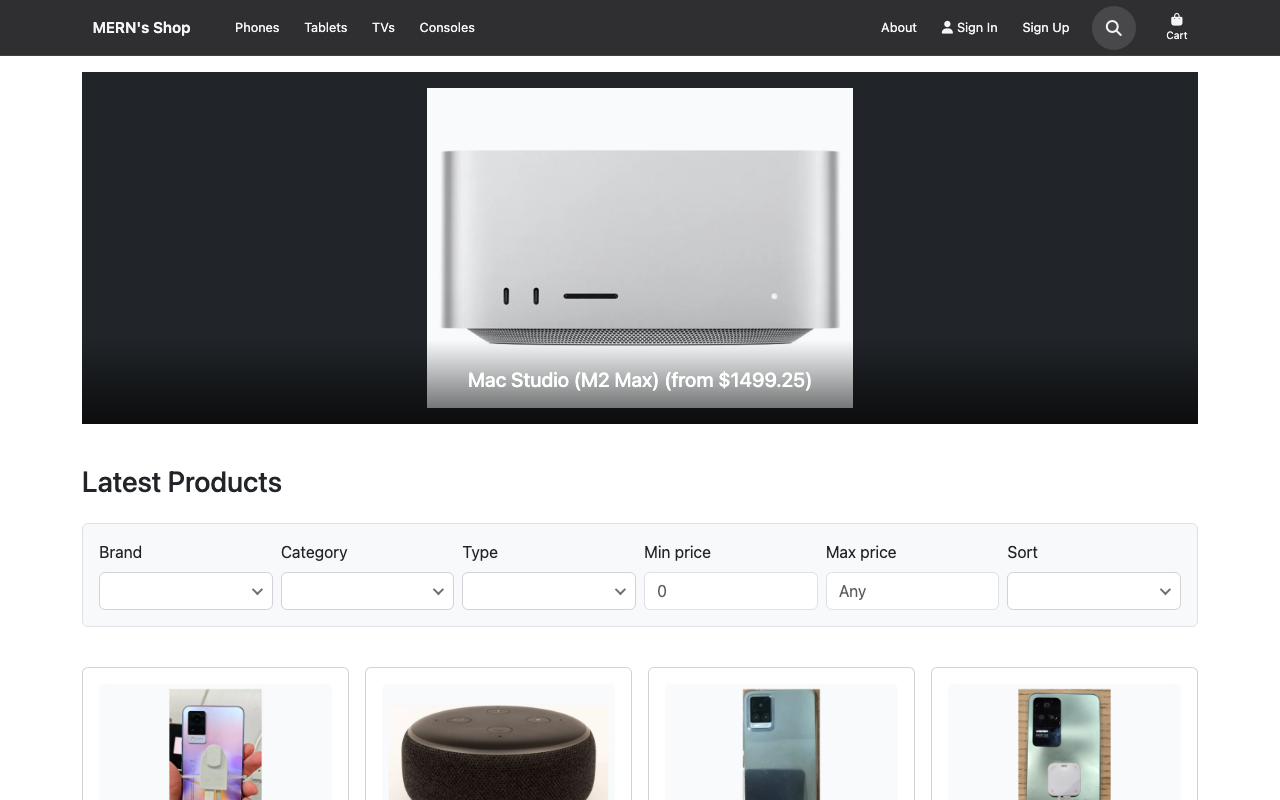
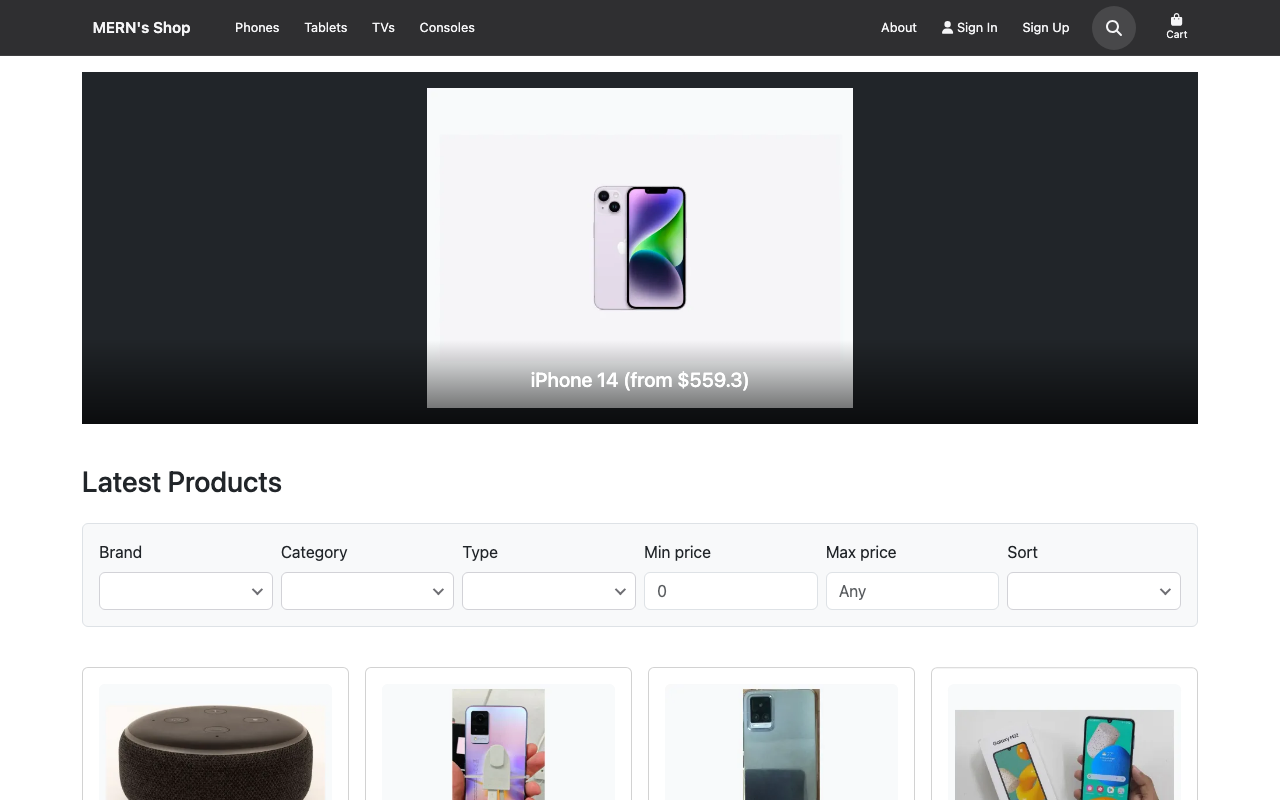
docs: refresh README screenshots and fix broken PWA badge
Wait for admin product rows before capture so the admin screenshot shows
real data, and replace the shields.io badge that rendered as 404.

diff --git a/README.md b/README.md
@@ -12,7 +12,7 @@
 
 **Backend:** [![Express](https://img.shields.io/badge/Express-5-000000?logo=express&logoColor=white)](https://expressjs.com/) [![Mongoose](https://img.shields.io/badge/Mongoose-9-880000?logo=mongoose&logoColor=white)](https://mongoosejs.com/) [![MongoDB](https://img.shields.io/badge/MongoDB-7%20%2F%20Atlas%20M0-47A248?logo=mongodb&logoColor=white)](https://www.mongodb.com/atlas) [![JWT](https://img.shields.io/badge/JWT-httpOnly%20cookie-000000?logo=jsonwebtokens&logoColor=white)](README.md#checkout-and-auth) [![Helmet](https://img.shields.io/badge/Helmet-8-000000)](README.md#tech-stack) [![web-push](https://img.shields.io/badge/web--push-3.6-4285F4)](README.md#pwa-and-notifications)
 
-**PWA & UX:** [![PWA](https://img.shields.io/badge/PWA-installable-5A0FC8?logo=pwa&logoColor=white)](README.md#pwa-and-notifications) [![Workbox](https://img.shields.io/badge/Workbox-7.4-4285F4?logo=googlechrome&logoColor=white)](README.md#pwa-and-notifications) [![vite-plugin-pwa](https://img.shields.io/badge/vite--plugin--pwa-1.3-646CFF?logo=vite&logoColor=white)](README.md#pwa-and-notifications) [![Font Awesome](https://img.shields.io/badge/Font%20Awesome-6.7-528DD7?logo=fontawesome&logoColor=white)](README.md#responsive-ui-and-motion)
+**PWA & UX:** [![PWA](https://img.shields.io/badge/PWA-installable-5A0FC8?logo=googlechrome&logoColor=white)](README.md#pwa-and-notifications) [![Workbox](https://img.shields.io/badge/Workbox-7.4-4285F4?logo=googlechrome&logoColor=white)](README.md#pwa-and-notifications) [![vite-plugin-pwa](https://img.shields.io/badge/vite--plugin--pwa-1.3-646CFF?logo=vite&logoColor=white)](README.md#pwa-and-notifications) [![Font Awesome](https://img.shields.io/badge/Font%20Awesome-6.7-528DD7?logo=fontawesome&logoColor=white)](README.md#responsive-ui-and-motion)
 
 **Payments & SEO:** [![PayPal](https://img.shields.io/badge/PayPal-sandbox-003087?logo=paypal&logoColor=white)](README.md#checkout-and-auth) [![SEO](https://img.shields.io/badge/SEO-sitemap%20%2B%20JSON--LD-0F9D58?logo=googlesearchconsole&logoColor=white)](docs/seo.md) [![react-helmet-async](https://img.shields.io/badge/react--helmet--async-3.0-61DAFB?logo=react&logoColor=black)](docs/seo.md)
 
@@ -234,7 +234,7 @@ E2E coverage: `tests/e2e/auth/login-register-profile.e2e.test.ts`, `tests/e2e/ch
 
 - **~170 parent products** with **500+ variants** (Apple, Samsung, Vivo, Xiaomi, Sony) live in [`backend/data/catalog/`](backend/data/catalog/).
 - Each product has nested **variants** (storage, screen size, etc.) with **MSRP `listPrice`** and tiered **second-hand `price`** (see [`backend/data/catalog/pricing.ts`](backend/data/catalog/pricing.ts)).
-- Images are **WebP** files under [`frontend/public/images/catalog/`](frontend/public/images/catalog/) (Git LFS). Sources and licenses are listed in [`catalog-image-manifest.json`](catalog-image-manifest.json). See [`frontend/public/images/catalog/ATTRIBUTION.md`](frontend/public/images/catalog/ATTRIBUTION.md).
+- Images are **WebP** files under [`frontend/public/images/catalog/`](frontend/public/images/catalog/) (Git LFS). Sources and licenses are listed in [`catalog/images/manifest.json`](catalog/images/manifest.json). See [`frontend/public/images/catalog/ATTRIBUTION.md`](frontend/public/images/catalog/ATTRIBUTION.md).
 - Refresh images: `pnpm catalog:sources` (Wikimedia Commons URLs) then `pnpm catalog:images` (download + convert).
 - Validate catalog data: `pnpm catalog:validate`
 - Storefront: brand/category filters, savings badges, variant picker on product pages.